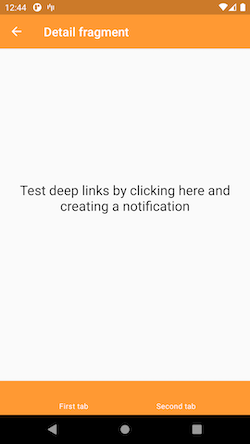
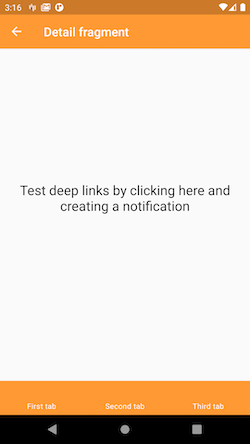
update docs

diff --git a/README.md b/README.md
@@ -28,7 +28,7 @@ allprojects {
 Add to app module gradle.build file
 ```
 dependencies {
-    compile 'com.github.cookpad:BottomNavWatson:0.0.2'
+    compile 'com.github.cookpad:BottomNavWatson:0.0.3'
 }
 ```
 
@@ -38,7 +38,7 @@ The API is pretty much the same that is provided in Google Samples: an extension
 fun BottomNavigationView.setupWithNavController(
     @NavigationRes graphResId: Int,
     activity: AppCompatActivity,
-    selectedTabId: Int,
+    initialSelectedTabId: Int,
     enabledTabs: List<Int>,
     containerId: Int,
     destinationChangedListener: NavController.OnDestinationChangedListener? = null,
@@ -67,7 +67,7 @@ This is required by Watson lib to avoid crashing when the graph is inflated for 
 ### Sample app
 There is a showcase in :app module to have access to a more detailed usage of Watson library.
 
-![](docs/images/first.png) ![](docs/images/second.png) ![](docs/images/detail.png) ![](docs/images/notification.png)
+![](docs/images/first.png) ![](docs/images/second.png) ![](docs/images/third.png) ![](docs/images/detail.png) ![](docs/images/notification.png)
 
 
 ### Disclaimer
